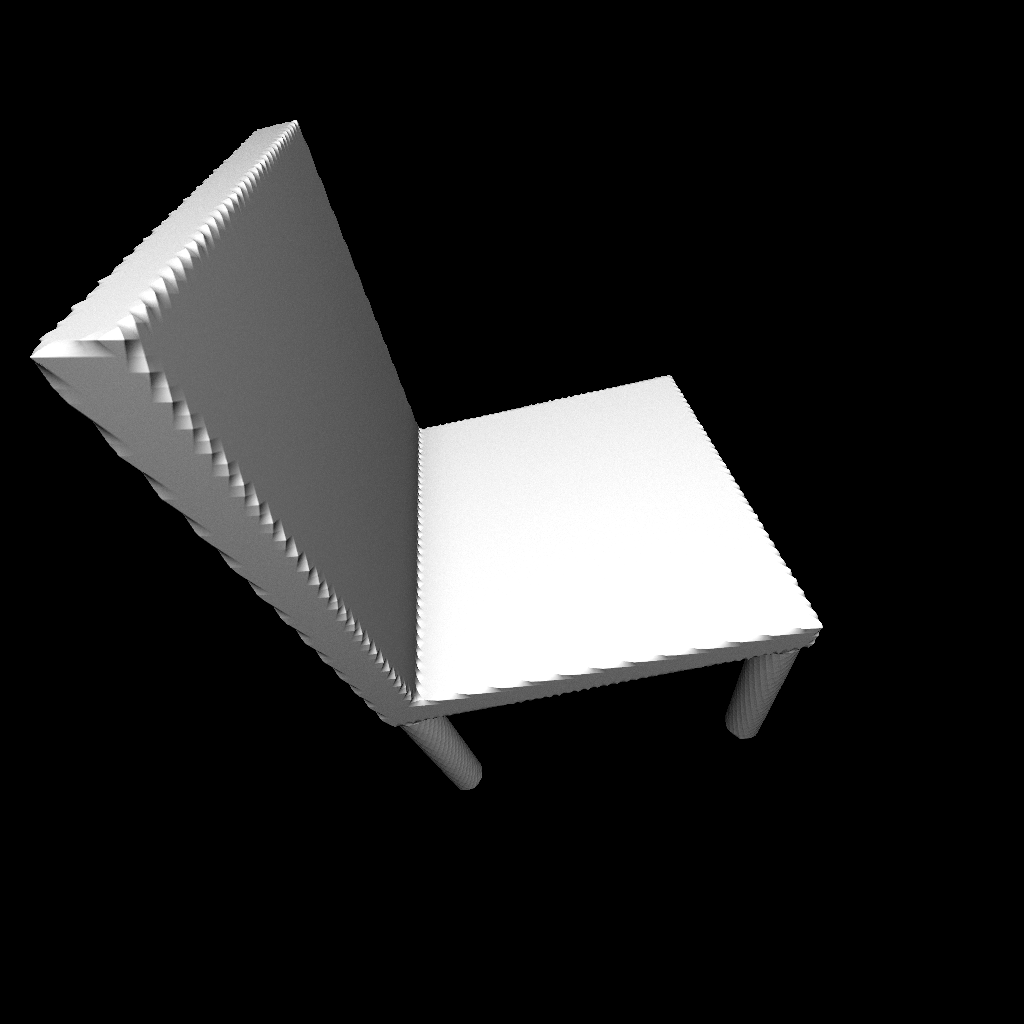
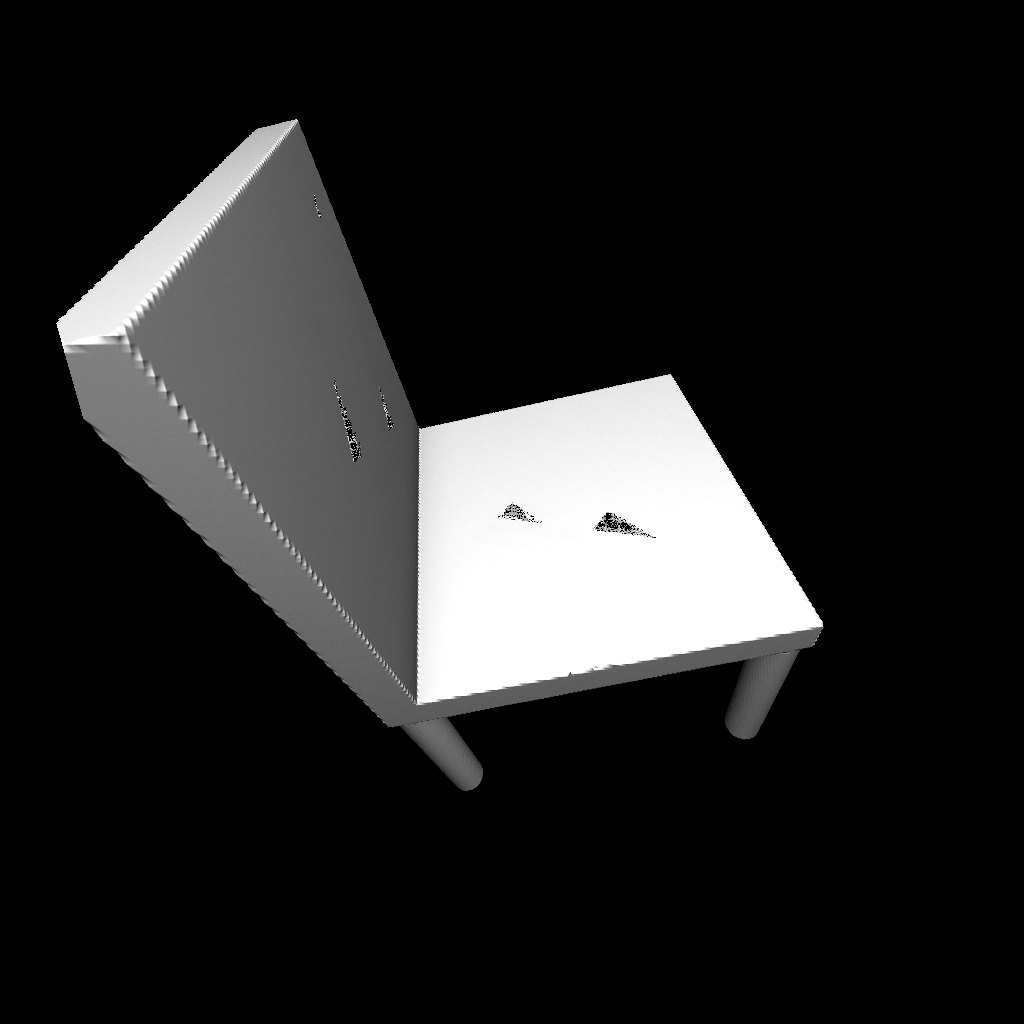
Some results of sparse rendering

diff --git a/src/sdf/sdf_sparse.cpp b/src/sdf/sdf_sparse.cpp
@@ -340,4 +340,73 @@ std::unique_ptr<SDFSparse> create_sdf_from_blocks(const SparseSDFCreateInfo &inf
   return res;
 }
 
+SDFSparseRenderer::SDFSparseRenderer(vkc::ContextPtr ctx, vk::DescriptorPool pool)
+{
+  auto prog = ctx->loadComputeProgram("src/shaders/trace_sparse_sdf.spv");
+  pipeline = prog->makePipeline({});
+  set = prog->allocDescSetUnique(pool);
+
+  nearestSampler = ctx->getSampler(vkc::DEF_NEAREST_SAMPLER);
+
+  auto smpInfo = vkc::DEF_SMOOTH_SAMPLER;
+  smpInfo.mipmapMode = vk::SamplerMipmapMode::eNearest;
+
+  linearSampler = ctx->getSampler(smpInfo);
+}
+
+void SDFSparseRenderer::render(vk::CommandBuffer cmd, const SDFRenderParams &params, const SDFSparse &sdf, vkc::BufferPtr out_buffer)
+{
+  assert(out_buffer->getSize() >= params.outWidth * params.outHeight * sizeof(glm::vec4));
+
+  auto ctx = std::static_pointer_cast<vkc::Context>(out_buffer->getContext());
+  
+  struct PushConsts
+  {
+    glm::vec4 camera_pos;
+    glm::vec4 camera_x;
+    glm::vec4 camera_y;
+    glm::vec4 camera_z;
+
+    float projDist; // distance to proj plane
+
+    uint outWidth;
+    uint outHeight;
+    uint samplesPerPixel;
+  
+    float sdfAABBScale; // sdf is a cube in range [-scale, +scale] centered in (0, 0, 0)
+    uint _pad0;
+    uint _pad1;
+    uint _pad2;
+  } pc {
+    .camera_pos = glm::vec4{params.camera.pos, 1.f},
+    .camera_x = glm::vec4{params.camera.x, 0.f},
+    .camera_y = glm::vec4{params.camera.y, 0.f},
+    .camera_z = glm::vec4{params.camera.z, 0.f},
+    .projDist = 1.f/(2.f * tanf(params.fovy * 0.5)),
+
+    .outWidth = params.outWidth,
+    .outHeight = params.outHeight,
+    .samplesPerPixel = 1,
+
+    .sdfAABBScale = params.sdfScale
+  };
+
+  pipeline->getProgram()->writeDescSet(*set, 0, {
+    {0, vkc::BufferBinding {out_buffer}},
+    {1, vkc::ImageBinding {nullptr, sdf.view, vk::ImageLayout::eShaderReadOnlyOptimal}},
+    {2, vkc::ImageBinding {nearestSampler, nullptr, vk::ImageLayout::eUndefined}},
+    {3, vkc::ImageBinding {linearSampler, nullptr, vk::ImageLayout::eUndefined}},
+    {4, vkc::ImageBinding {nearestSampler, sdf.pageMappingView, vk::ImageLayout::eShaderReadOnlyOptimal}}
+  });
+
+  const uint32_t workGroupX = 8;
+  const uint32_t workGroupY = 4;
+
+  cmd.bindPipeline(vk::PipelineBindPoint::eCompute, pipeline->getPipeline());
+  cmd.bindDescriptorSets(vk::PipelineBindPoint::eCompute, pipeline->getProgram()->getPipelineLayout(), 0, {*set}, {});
+  cmd.pushConstants(pipeline->getProgram()->getPipelineLayout(), vk::ShaderStageFlagBits::eCompute, 0, sizeof(pc), &pc);
+  cmd.dispatch((pc.outWidth + workGroupX - 1)/workGroupX, (pc.outHeight + workGroupY - 1)/workGroupY, 1);
+}
+
+
 }

diff --git a/src/main.cpp b/src/main.cpp
@@ -139,7 +139,8 @@ int main(int argc, char **argv)
       {vk::DescriptorType::eStorageBuffer, 512},
       {vk::DescriptorType::eUniformBuffer, 512},
       {vk::DescriptorType::eSampledImage, 512},
-      {vk::DescriptorType::eStorageImage, 512}
+      {vk::DescriptorType::eStorageImage, 512},
+      {vk::DescriptorType::eSampler, 512}
     };
 
     vk::DescriptorPoolCreateInfo info {};
@@ -197,12 +198,13 @@ int main(int argc, char **argv)
   }
 
   auto sdfDenseRenderer = std::make_unique<sdf::SDFDenseRenderer>(ctx, *descPool);
+  auto sdfSparseRenderer = std::make_unique<sdf::SDFSparseRenderer>(ctx, *descPool);
   // trace sdf
   {
     cmd->begin(vk::CommandBufferBeginInfo{});
 
-    sdfDenseRenderer->render(*cmd, renderParams, sdfSparse->view, stagingBuffer);
-
+    //sdfDenseRenderer->render(*cmd, renderParams, sdfSparse->view, stagingBuffer);
+    sdfSparseRenderer->render(*cmd, renderParams, *sdfSparse, stagingBuffer);
     cmd->end();
 
     vk::SubmitInfo submitInf {};

diff --git a/src/sdf/sdf_sparse.hpp b/src/sdf/sdf_sparse.hpp
@@ -56,6 +56,22 @@ struct SparseSDFCreateInfo
 
 std::unique_ptr<SDFSparse> create_sdf_from_blocks(const SparseSDFCreateInfo &info);
 
+struct SDFSparseRenderer
+{
+  SDFSparseRenderer(vkc::ContextPtr ctx, vk::DescriptorPool pool);
+
+  // out buffer size must be >= width x height x vec4 
+  void render(vk::CommandBuffer cmd, const SDFRenderParams &params, const SDFSparse &sdf, vkc::BufferPtr out_buffer);
+
+
+private:
+  vkc::ComputePipelinePtr pipeline;
+  vk::UniqueDescriptorSet set;
+
+  vk::Sampler nearestSampler;
+  vk::Sampler linearSampler;
+};
+
 }
 
 #endif
